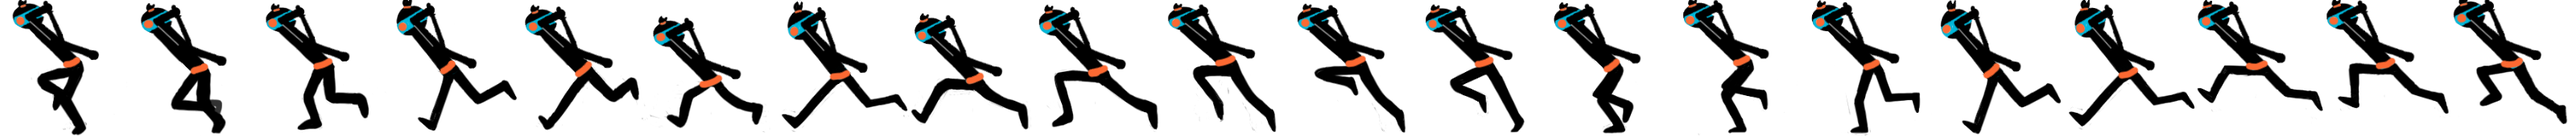
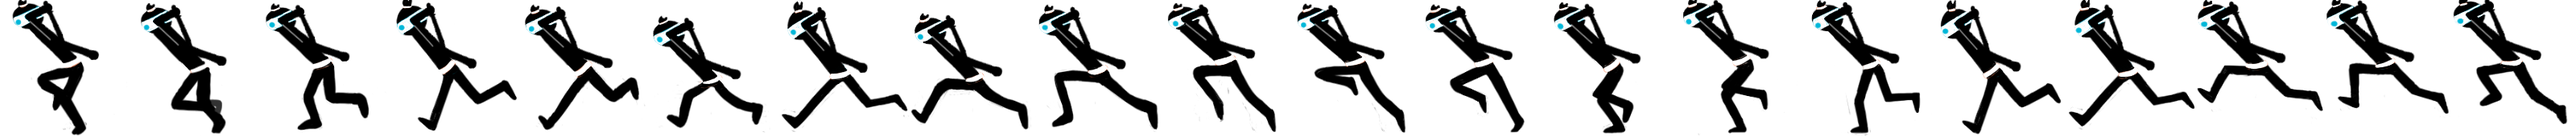
Add the enemy's image and the enemy's waving movement

diff --git a/FlappyDemo/core/src/com/yinghanxu/game/States/PlayState.java b/FlappyDemo/core/src/com/yinghanxu/game/States/PlayState.java
@@ -41,6 +41,7 @@ public class PlayState extends State{
     private Texture gameoverImg;
     private int playerFrameNum = 2;
     private int waveTime = 0;
+    private boolean waveStatus = false;
 
     Vector3 birdPosition;
 
@@ -191,13 +192,13 @@ public void update(float dt) {
                         break;
                 }
             }
-            if (ally.collides(player.getBounds())) {
-//                gsm.set(new PlayState(gsm));
-                player.status = 3;
-                ally.status = 1;
-                gameover = true;
-                player.colliding = true;
-            }
+//            if (ally.collides(player.getBounds())) {
+////                gsm.set(new PlayState(gsm));
+//                player.status = 3;
+//                ally.status = 1;
+//                gameover = true;
+//                player.colliding = true;
+//            }
 
         }
 
@@ -245,32 +246,52 @@ public void update(float dt) {
             //Check the collision between the blue ally with the player
 
             //Check whether the enemy have waved the sword and killed the player
-            if (enemy.collides((player.getBounds()))) {
-                if(enemy.status!= 3 ) {
-                    //enemy.status = 2;   //waving the sword;
-                    player.status = 3;
-                    enemy.status = 1;   //Aftering killing the player, the enemy changes the animation to running
-                    gameover = true;
-                    player.colliding = true;
-                }
-
-            }
+//            if (enemy.collides((player.getBounds()))) {
+//                if(enemy.status!= 3 ) {
+//                    //enemy.status = 2;   //waving the sword;
+//                    player.status = 3;
+//                    enemy.status = 1;   //Aftering killing the player, the enemy changes the animation to running
+//                    gameover = true;
+//                    player.colliding = true;
+//                }
+//
+//            }
             //System.out.println("enemyX = " + enemy.getPosEnemy().x + "; playerX = " + cam.position.x);
             //This is the distance which is used to determine whether the player kills the enemy;
-            if (java.lang.Math.abs(enemy.getPosEnemy().x -
-                    (player.getPosition().x + (player.getTexture().getRegionWidth() / playerFrameNum)+250)) < 5) {
-                if (player.status == 4) {
-                    enemy.status = 3; // 3 means the enemy is dead.
-                    score++;
+            if(player.status == 4){ // status 4 means the player is waving the sword
+                if (java.lang.Math.abs(enemy.getPosEnemy().x -
+                        (player.getPosition().x + (player.getTexture().getRegionWidth() / 7))) < 150) {
+            //        if (player.status == 4) {
+                        enemy.status = 3; // status 3 means the enemy is dead.
+                        score++;
+            //        }
                 }
             }
+
             //This is the distance which is used to determine whether the enemy should wave the sword and kill the player;
-            if (java.lang.Math.abs(enemy.getPosEnemy().x -
-                    (player.getPosition().x + (player.getTexture().getRegionWidth() / playerFrameNum)+200)) < 5) {
-                if(enemy.status!= 3 ) {
-                    enemy.status = 2;
+            System.out.println("player status: " + player.status);
+            if(!waveStatus){
+                System.out.println("====================================");
+                if (java.lang.Math.abs(enemy.getPosEnemy().x -
+                        (player.getPosition().x + (player.getTexture().getRegionWidth() / 20))) < 140) {
+                    if(enemy.status!= 3 ) {
+                        player.status = 3; //status 3 means the player is dead
+                        if(waveTime % 20 ==0 ){
+                            waveTime++;
+                            enemy.status = 1;
+                            waveStatus = false;
+                        }else {
+                            enemy.status = 2; // the enemy wave the sword
+                        }
+                        System.out.println("enemy status: " + enemy.status);
+
+                        gameover = true;
+                        player.colliding = true;
+
+                    }
                 }
             }
+
         }
 
 

diff --git a/FlappyDemo/core/src/com/yinghanxu/game/sprites/Enemy.java b/FlappyDemo/core/src/com/yinghanxu/game/sprites/Enemy.java
@@ -13,29 +13,49 @@ public class Enemy {
     private Vector2 enemy;
     private Rectangle bounds;
     private Texture texture,textureWave, textureCollide;
-    private Animation enemyAnimationRun, enemyAnimationWave;
-    private int runFrameNum = 20, waveFrameNum = 20;
+    private AllyAnimation enemyAnimationRun, enemyAnimationWave;
+    private int runFrameNum = 20, waveFrameNum = 7;
+    private int waveTime = 0;
+    public boolean waveStatus = true;
     public int status = 1; //1 means runing; 2 means waving the sword; 3 means die;
 
     public Enemy(float x) {
 
         enemy = new Vector2(x, Ground.GROUND_HEIGHT);
-        texture = new Texture("ally.png");
-        textureWave = new Texture("birdanimation.png");
+        texture = new Texture("enemy.png");
+        textureWave = new Texture("enemywave.png");
         textureCollide = new Texture("allyDie.png");
-        enemyAnimationRun = new Animation(new TextureRegion(texture), runFrameNum, 0.5f);
-        enemyAnimationWave = new Animation(new TextureRegion(texture), waveFrameNum, 0.1f);
+        enemyAnimationRun = new AllyAnimation(new TextureRegion(texture), runFrameNum, 0.5f);
+        enemyAnimationWave = new AllyAnimation(new TextureRegion(textureWave), waveFrameNum, 0.2f);
 
         bounds = new Rectangle(enemy.x, enemy.y, texture.getWidth() / runFrameNum , texture.getHeight()); //use the 4 parameters' method, x, y, width, height
 
     }
 
     public void update(float dt) {
-        if (status == 1 || status ==3) {
+        System.out.println(status);
+        if (status == 1 ) {
             enemyAnimationRun.update(dt);
-        } else {
+        } else if ( status == 2 ){
             enemyAnimationWave.update(dt);
+//            waveTime++;
+//            if (waveTime % 25 == 0) {
+//                status = 1;
+//                //waveStatus = false;
+//                System.out.println("==================================================");
+//                //System.out.println("==================================================");
+//            }
         }
+//        if(status != 3){
+//            if(waveStatus){
+//                status = 2;
+//                //waveStatus = true;
+//                System.out.println("2222222222222222222222222222222222");
+//            } else{
+//                status = 1;
+//                //System.out.println("111111111111111111111111111111111111");
+//            }
+//        }
 
 
     }
@@ -44,7 +64,7 @@ public class Enemy {
     }
 
     public TextureRegion getTexture() {
-        if (status == 1 || status ==3 ) {
+        if (status == 1 ) {
             return enemyAnimationRun.getFrame();
         } else {
             return enemyAnimationWave.getFrame();
@@ -61,6 +81,8 @@ public class Enemy {
         bounds.setPosition(enemy.x, enemy.y);
         status = 1;
     }
+
+//    public void getDead
 
     public boolean collides(Rectangle player) {
         return player.overlaps(bounds);

diff --git a/FlappyDemo/core/src/com/yinghanxu/game/sprites/Player.java b/FlappyDemo/core/src/com/yinghanxu/game/sprites/Player.java
@@ -20,7 +20,7 @@ public class Player {
     private Rectangle bounds;
     private Animation playerAnimationRun, playerAnimationJump, playerAnimationCollide, playerAnimationWave;
     public Texture texture, textureJump, textureCollide, textureWave;
-    private int jumpFrameNum = 20, runFrameNum = 20, waveFrameNum = 3;
+    private int jumpFrameNum = 20, runFrameNum = 20, waveFrameNum = 7;
     private Sound flap;
     private int groundHeight = 700;
     public int touchCount = 1;
@@ -63,11 +63,11 @@ public class Player {
         texture = new Texture("player.png");
         textureJump = new Texture("1130jump.png");
         textureCollide = new Texture("die.png");
-        textureWave = new Texture("birdanimation.png");
+        textureWave = new Texture("playerwave.png");
         playerAnimationRun = new Animation(new TextureRegion(texture), runFrameNum, 0.5f);
         //playerAnimationJump = new Animation(new TextureRegion(textureJump), jumpFrameNum, 1f);
         playerAnimationCollide = new Animation(new TextureRegion(texture), runFrameNum, 0.1f);
-        playerAnimationWave = new Animation(new TextureRegion(textureWave), waveFrameNum, 0.5f);
+        playerAnimationWave = new Animation(new TextureRegion(textureWave), waveFrameNum, 0.1f);
 //        if (status == 1) {
 //            //bounds = new Rectangle(x, y, textureWave.getWidth() / waveFrameNum, textureWave.getHeight());
 //            bounds = new Rectangle(x, y, texture.getWidth() / runFrameNum, texture.getHeight());
@@ -102,7 +102,7 @@ public class Player {
                 waveTime++; //Calculate the waving sword time
                 playerAnimationWave.update(dt);
                 //Aftering spending out the waving time, change to the run status
-                if (waveTime % 200 == 0) {
+                if (waveTime % 15 == 0) {
                     waveStatus = false;
                 }
                 //System.out.println("waveTime = " + waveTime);
@@ -149,7 +149,7 @@ public class Player {
         waveStatus = true;
         status = 4; //4 means the waving animation
         //velocity.y = 1500;
-        playerAnimationWave = new Animation(new TextureRegion(textureWave), waveFrameNum, 1f);
+        playerAnimationWave = new Animation(new TextureRegion(textureWave), waveFrameNum, 0.2f);
     }
 
     public int getStatus(){ return status;}

diff --git a/FlappyDemo/core/src/com/yinghanxu/game/sprites/Ground.java b/FlappyDemo/core/src/com/yinghanxu/game/sprites/Ground.java
@@ -46,7 +46,7 @@ public class Ground {
     }
 
     public void reposition(){
-        length = 400 + rand.nextInt(800);
+        length = 700 + rand.nextInt(800);
         groundGap = 100 + rand.nextInt(GROUND_MAX_GAP);
         switch (rand.nextInt(6)) {
             case 1:
